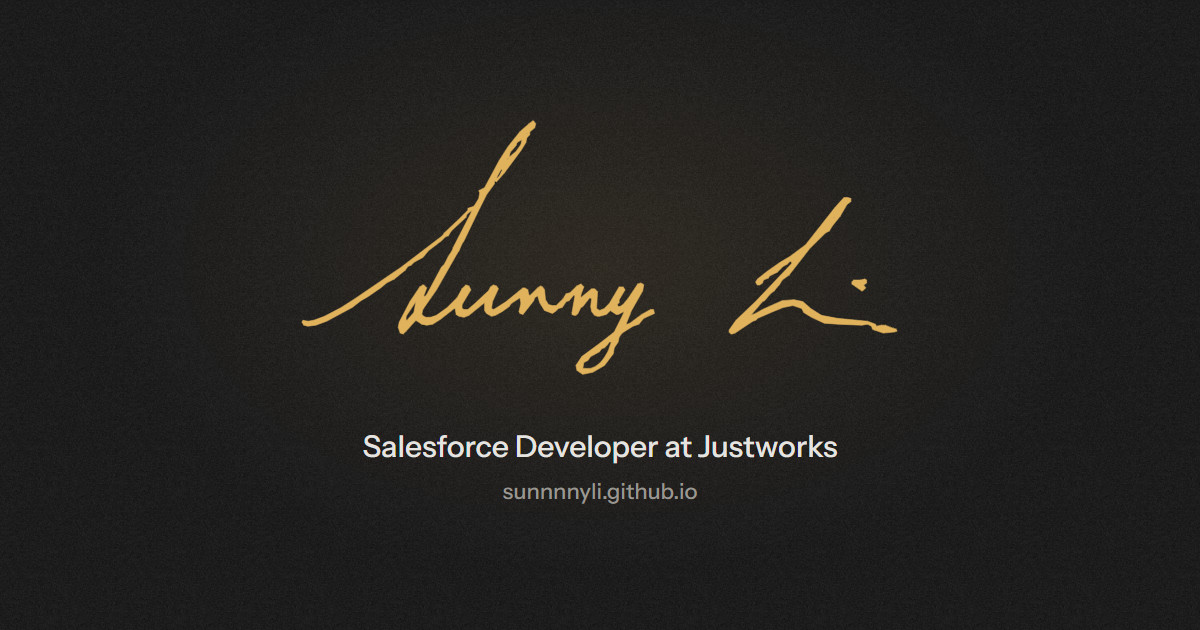
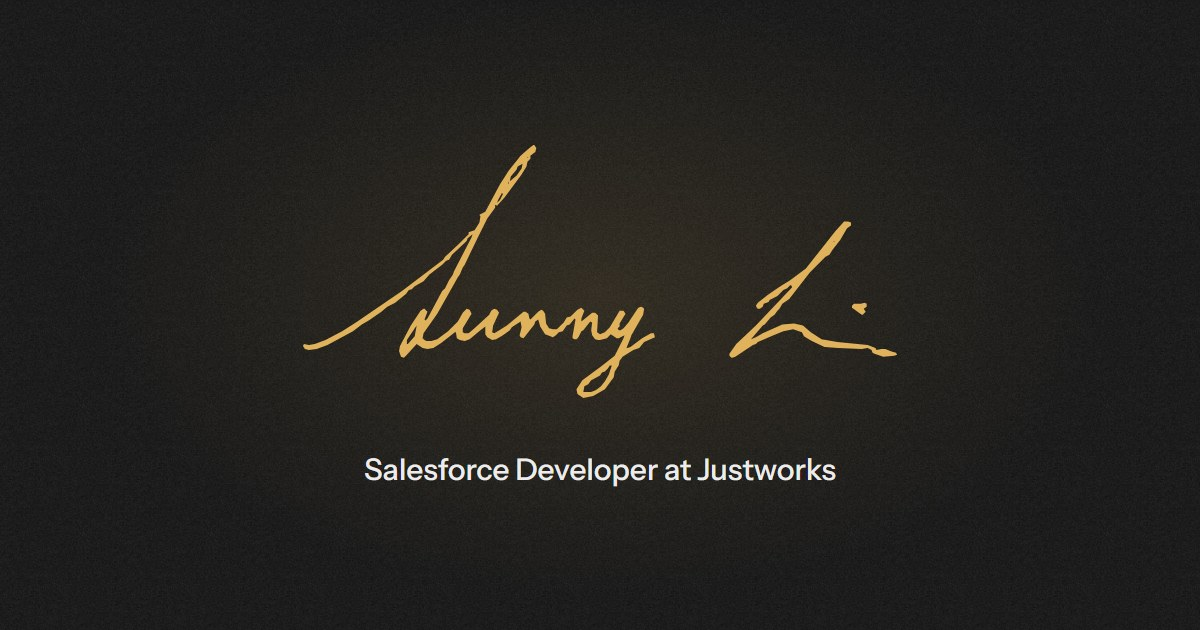
Remove the headlines from sections 1–4, update the About paragraph, take the web address off the link preview, and keep scrambled text out of the section link labels

diff --git a/index.html b/index.html
@@ -222,9 +222,9 @@
                         <p>I love building things that <span class="hl">quietly make other people's jobs easier</span>.
                         Usually that means sitting down with the teams who use Salesforce, learning how they actually work,
                         and <span class="hl">taking the tedious parts off their plates</span>.</p>
-                        <p>I’ve learned the most when I was <span class="hl">pushed outside what I already knew</span>. Whether that
-                        meant picking up a new language on the job or keeping up with requirements that changed every week,
-                        I’ve grown to enjoy that kind of challenge.</p>
+                        <p>A lot of what I’ve learned has come from <span class="hl">stepping into something unfamiliar</span>, whether
+                        that meant picking up a new language on the job or keeping up with requirements that changed every week.
+                        I’ve come to enjoy the challenge of figuring things out and learning along the way.</p>
                     </div>
                 </div>
             </div>
@@ -234,8 +234,7 @@
         <section class="light section rise holds" id="impact" aria-labelledby="impact-title">
             <div class="hold">
                 <div class="container">
-                    <p class="eyebrow grad-text rv"><span class="eyebrow-num">01</span><span class="sep"><span class="visually-hidden">, </span></span>Impact</p>
-                    <h2 class="headline rv" id="impact-title" style="--d:.08s">My work, <br>by the numbers.</h2>
+                    <h2 class="eyebrow grad-text rv" id="impact-title"><span class="eyebrow-num">01</span><span class="sep"><span class="visually-hidden">, </span></span>Impact</h2>
 
                     <div class="bento">
                         <article class="tile tile-span2 spot rv-scale" data-turn>
@@ -305,8 +304,7 @@
         <section class="light section rise holds" id="experience" aria-labelledby="experience-title">
             <div class="hold">
                 <div class="container">
-                    <p class="eyebrow grad-text rv"><span class="eyebrow-num">02</span><span class="sep"><span class="visually-hidden">, </span></span>Experience</p>
-                    <h2 class="headline rv" id="experience-title" style="--d:.08s">Where I've shipped.</h2>
+                    <h2 class="eyebrow grad-text rv" id="experience-title"><span class="eyebrow-num">02</span><span class="sep"><span class="visually-hidden">, </span></span>Experience</h2>
 
                     <div class="jobs">
                         <article class="job" id="job-justworks" data-name="Justworks" data-skills="Salesforce, Apex, Lightning Web Components, Flow, REST APIs, Git/GitHub">
@@ -372,8 +370,7 @@
         <section class="dark rise" id="projects" aria-labelledby="projects-title">
             <div class="hold">
                 <div class="container projects-head">
-                    <p class="eyebrow grad-text rv"><span class="eyebrow-num">03</span><span class="sep"><span class="visually-hidden">, </span></span>Projects</p>
-                    <h2 class="headline rv" id="projects-title" style="--d:.08s">Selected work.</h2>
+                    <h2 class="eyebrow grad-text rv" id="projects-title"><span class="eyebrow-num">03</span><span class="sep"><span class="visually-hidden">, </span></span>Projects</h2>
                 </div>
 
                 <div class="gallery" data-scene>
@@ -507,8 +504,7 @@
         <section class="light section rise holds" id="education" aria-labelledby="education-title">
             <div class="hold">
                 <div class="container">
-                    <p class="eyebrow grad-text rv"><span class="eyebrow-num">04</span><span class="sep"><span class="visually-hidden">, </span></span>Education</p>
-                    <h2 class="headline rv" id="education-title" style="--d:.08s">The foundation.</h2>
+                    <h2 class="eyebrow grad-text rv" id="education-title"><span class="eyebrow-num">04</span><span class="sep"><span class="visually-hidden">, </span></span>Education</h2>
 
                     <div class="found">
                         <article class="tile spot rv-scale">

diff --git a/assets/css/styles.css b/assets/css/styles.css
@@ -339,13 +339,6 @@ img, svg { -webkit-user-drag: none; }
     text-transform: uppercase;
 }
 
-.headline {
-    font-size: clamp(2.4rem, 6vw, 4.5rem);
-    font-weight: 400;
-    letter-spacing: -0.02em;
-    line-height: 1.08;
-}
-
 /* Buttons and links */
 .pill {
     display: inline-flex;
@@ -1190,21 +1183,6 @@ html:not(.motion) .dot-grid canvas { display: none; }
 .motion .rv-scale { translate: 0 40px; scale: 0.94; transition-property: opacity, translate, scale; }
 .motion .rv-scale.in { opacity: 1; translate: none; scale: none; }
 
-/* Section headlines don't fade in whole: each line rises into place from behind its own edge, one after another.
-   The script puts every word in a clipped box (.hl-w) and numbers the lines (--line). The clip reaches a little
-   past each word, so descenders and italics aren't cut off. */
-.hl-w { display: inline-block; clip-path: inset(-0.25em -0.2em -0.3em); }
-.hl-w > span { display: inline-block; }
-.motion .headline.split { opacity: 1; filter: none; transform: none; }
-
-.motion .headline.split .hl-w > span {
-    transform: translate3d(0, calc(100% + 0.4em), 0);
-    transition: transform 1.1s var(--ease);
-    transition-delay: calc(var(--d, 0s) + var(--line, 0) * 0.12s);
-}
-
-.motion .headline.split.in .hl-w > span { transform: none; }
-
 /* ================= Impact bento ================= */
 .bento {
     display: grid;
@@ -2046,7 +2024,7 @@ html:not(.motion) .card.card-loop,
     }
 
     .hero-copy, .hero-photo-wrap, .hero-photo, .gallery-track, .card, .tile, .skill, .rv, .rv-scale, .load,
-    .hero-title, .hero-title .ch, .story .w, .feats li, .headline .hl-w > span, .story-sticky > .container, .holds > .hold {
+    .hero-title, .hero-title .ch, .story .w, .feats li, .story-sticky > .container, .holds > .hold {
         opacity: 1 !important;
         transform: none !important;
         translate: none !important;
@@ -2065,7 +2043,6 @@ html:not(.motion) .card.card-loop,
     .hero-photo { width: 7.5rem !important; }
     .hero-quote { display: none !important; }
     .hero-title { font-size: 40pt !important; }
-    .headline { font-size: 22pt !important; }
     .story-text { max-width: none; font-size: 14pt !important; }
 
     .gallery-track { flex-wrap: wrap; width: auto !important; padding: 0 !important; }
@@ -2083,7 +2060,7 @@ html:not(.motion) .card.card-loop,
 
     .tile, .card, .job, .feats li, .found, .marquee { break-inside: avoid; }
     .eyebrow { display: block !important; }
-    .eyebrow, .headline { break-after: avoid; page-break-after: avoid; }
+    .eyebrow { break-after: avoid; page-break-after: avoid; }
     .hero-actions { display: none !important; }
 
     /* Paper is narrow enough to trigger the phone layout; put the two-column layouts back */
@@ -3324,7 +3301,7 @@ body, .hero, .story, .dark, .light, .footer, .hero-sticky, .story-sticky, .galle
 }
 
 .anchor-btn svg { width: 14px; height: 14px; stroke-width: 2; }
-.container:has(> :is(.eyebrow, .headline, .contact-sub):hover) > .anchor-btn { opacity: 1; }
+.container:has(> :is(.eyebrow, .contact-sub):hover) > .anchor-btn { opacity: 1; }
 .anchor-btn:hover,
 .anchor-btn:focus-visible,
 .anchor-btn.copied { opacity: 1; color: var(--accent); background: rgba(var(--accent-rgb), 0.1); }
@@ -3554,7 +3531,6 @@ body, .hero, .story, .dark, .light, .footer, .hero-sticky, .story-sticky, .galle
     .bento { grid-template-columns: 1fr; }
 
     .edu-facts { grid-template-columns: 1fr; }
-    .headline br { display: none; }
     /* At the end of the page the footer's line sits level with the round back-to-top button (both 44px tall, 16px off
        the bottom), with room on the right so the text never runs under it */
     .footer-inner {

diff --git a/assets/js/main.js b/assets/js/main.js
@@ -91,19 +91,6 @@
         return i;
     };
 
-    // Which line each word of a split headline sits on, so the lines can rise one after another. It's measured as
-    // the headline comes into view, since where the lines break depends on the screen width and the fonts.
-    const numberLines = (headline) => {
-        let line = -1;
-        let top = -Infinity;
-        headline.querySelectorAll('.hl-w').forEach((w) => {
-            if (w.offsetTop > top + 2) {
-                line++;
-                top = w.offsetTop;
-            }
-            w.style.setProperty('--line', line);
-        });
-    };
     // Text resolves from scrambled characters, left to right: the section labels ("01 | Impact") as they come into
     // view, and everything on the first screen as the page opens. It's scrambled from its very first frame,
     // so the real words never show before they decode. Each word keeps its real width while it scrambles (and is cut
@@ -231,7 +218,6 @@
         root.classList.remove('intro'); // it's all scrambled now, so the text can show (see .intro in styles.css)
     };
     const reveal = (el) => {
-        if (el.classList.contains('split')) numberLines(el);
         if (el.classList.contains('eyebrow')) decode(el, { signs: true });
         el.classList.add('in');
     };
@@ -285,19 +271,6 @@
                 hl.style.setProperty('--i0', words[0].style.getPropertyValue('--i'));
                 hl.style.setProperty('--c', words.length);
             });
-        });
-
-        // Section headlines: each word sits in its own clipped box, so it can rise into view from behind its edge
-        document.querySelectorAll('.headline').forEach((h) => {
-            wrapWords(h, (word) => {
-                const box = document.createElement('span');
-                box.className = 'hl-w';
-                const s = document.createElement('span');
-                s.textContent = word;
-                box.append(s);
-                return box;
-            });
-            h.classList.add('split');
         });
 
         // Marquees: repeat items until a row is wider than the screen, then double it for a seamless loop.
@@ -2247,7 +2220,7 @@
     checkpoints.forEach(({ a, sec }) => {
         const label = sec.querySelector('.eyebrow');
         if (!label) return;
-        const name = a.textContent.trim();
+        const name = (a.querySelector('.visually-hidden') || a).textContent.trim(); // the link may still be decoding
         const b = document.createElement('button');
         b.type = 'button';
         b.className = 'anchor-btn';

diff --git a/README.md b/README.md
@@ -22,7 +22,7 @@ I built it from scratch with plain HTML, CSS, and JavaScript. There's no framewo
 | **Motion you can turn off** | The scroll animations respect your reduced-motion setting, and there's a switch in the nav too |
 | **Light on any device** | Self-hosted fonts trimmed to the weights and characters in use, photos sized for each screen, lighter effects on touch screens, and looping animations that pause while they're off screen |
 | **Skills linked to work** | Pick a skill in the toolkit to see the roles and projects where I used it |
-| **Smooth transitions** | Pages ease into each other (the résumé starts loading when you hover its link, so it opens right away), headlines rise line by line, the impact numbers roll into place like an odometer, and the skill rows pick up speed as you scroll |
+| **Smooth transitions** | Pages ease into each other (the résumé starts loading when you hover its link, so it opens right away), the impact numbers roll into place like an odometer, and the skill rows pick up speed as you scroll |
 | **Little details** | Cards, tiles, and skills lean toward your mouse, project diagrams draw themselves in, project cards open into their write-ups (swipe one down to close it on a phone, or step to the next project), the timeline fills as you scroll, the theme button's sun folds into a moon, the proverb under my photo shows its pinyin, and my signature signs the top bar and footer. On phones, the back-to-top button rings with your progress. |
 | **Résumé page** | My résumé as a web page, with the same theme, contrast, and motion switches, gentle animations, a reading progress line, and a PDF download |
 | **Accessible** | A skip link, native dialogs, keyboard focus styles, alt text, and a high-contrast switch that also follows your system setting |
